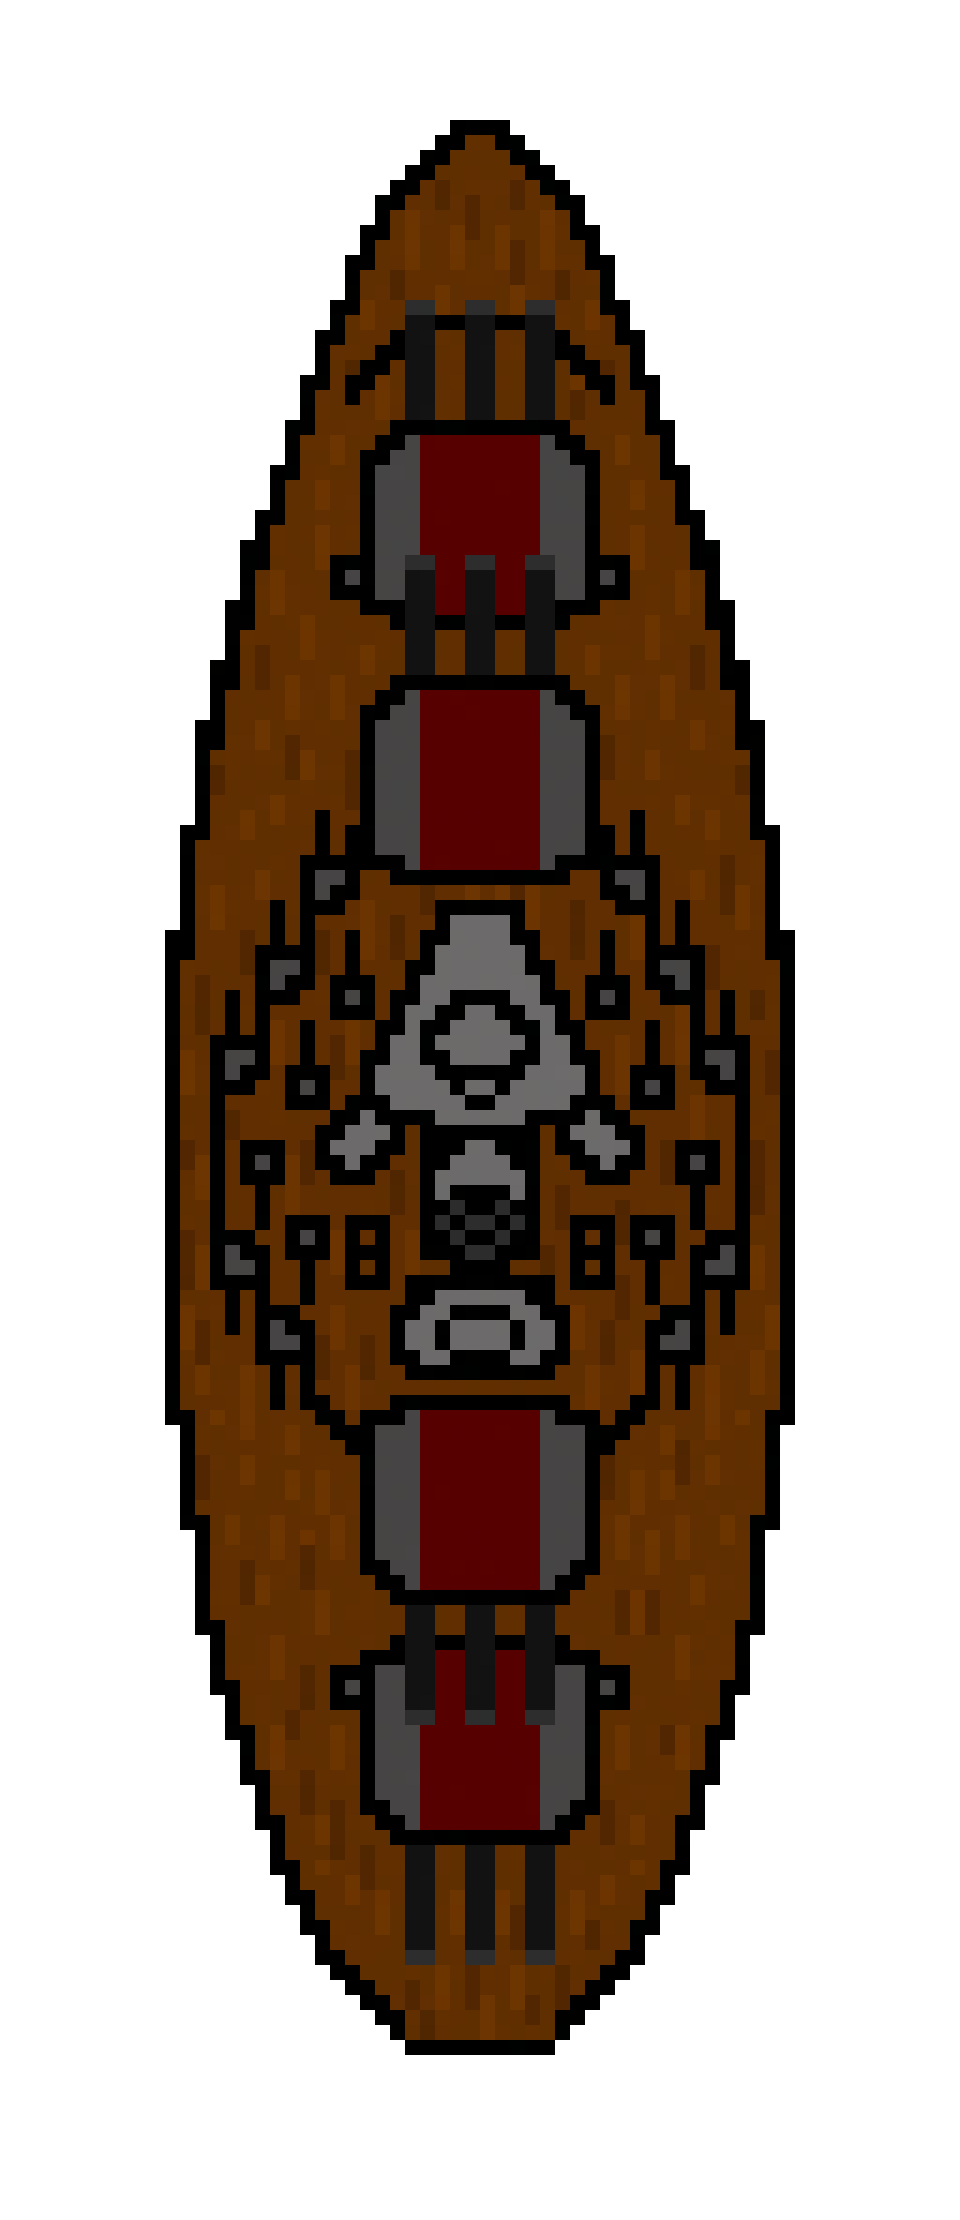
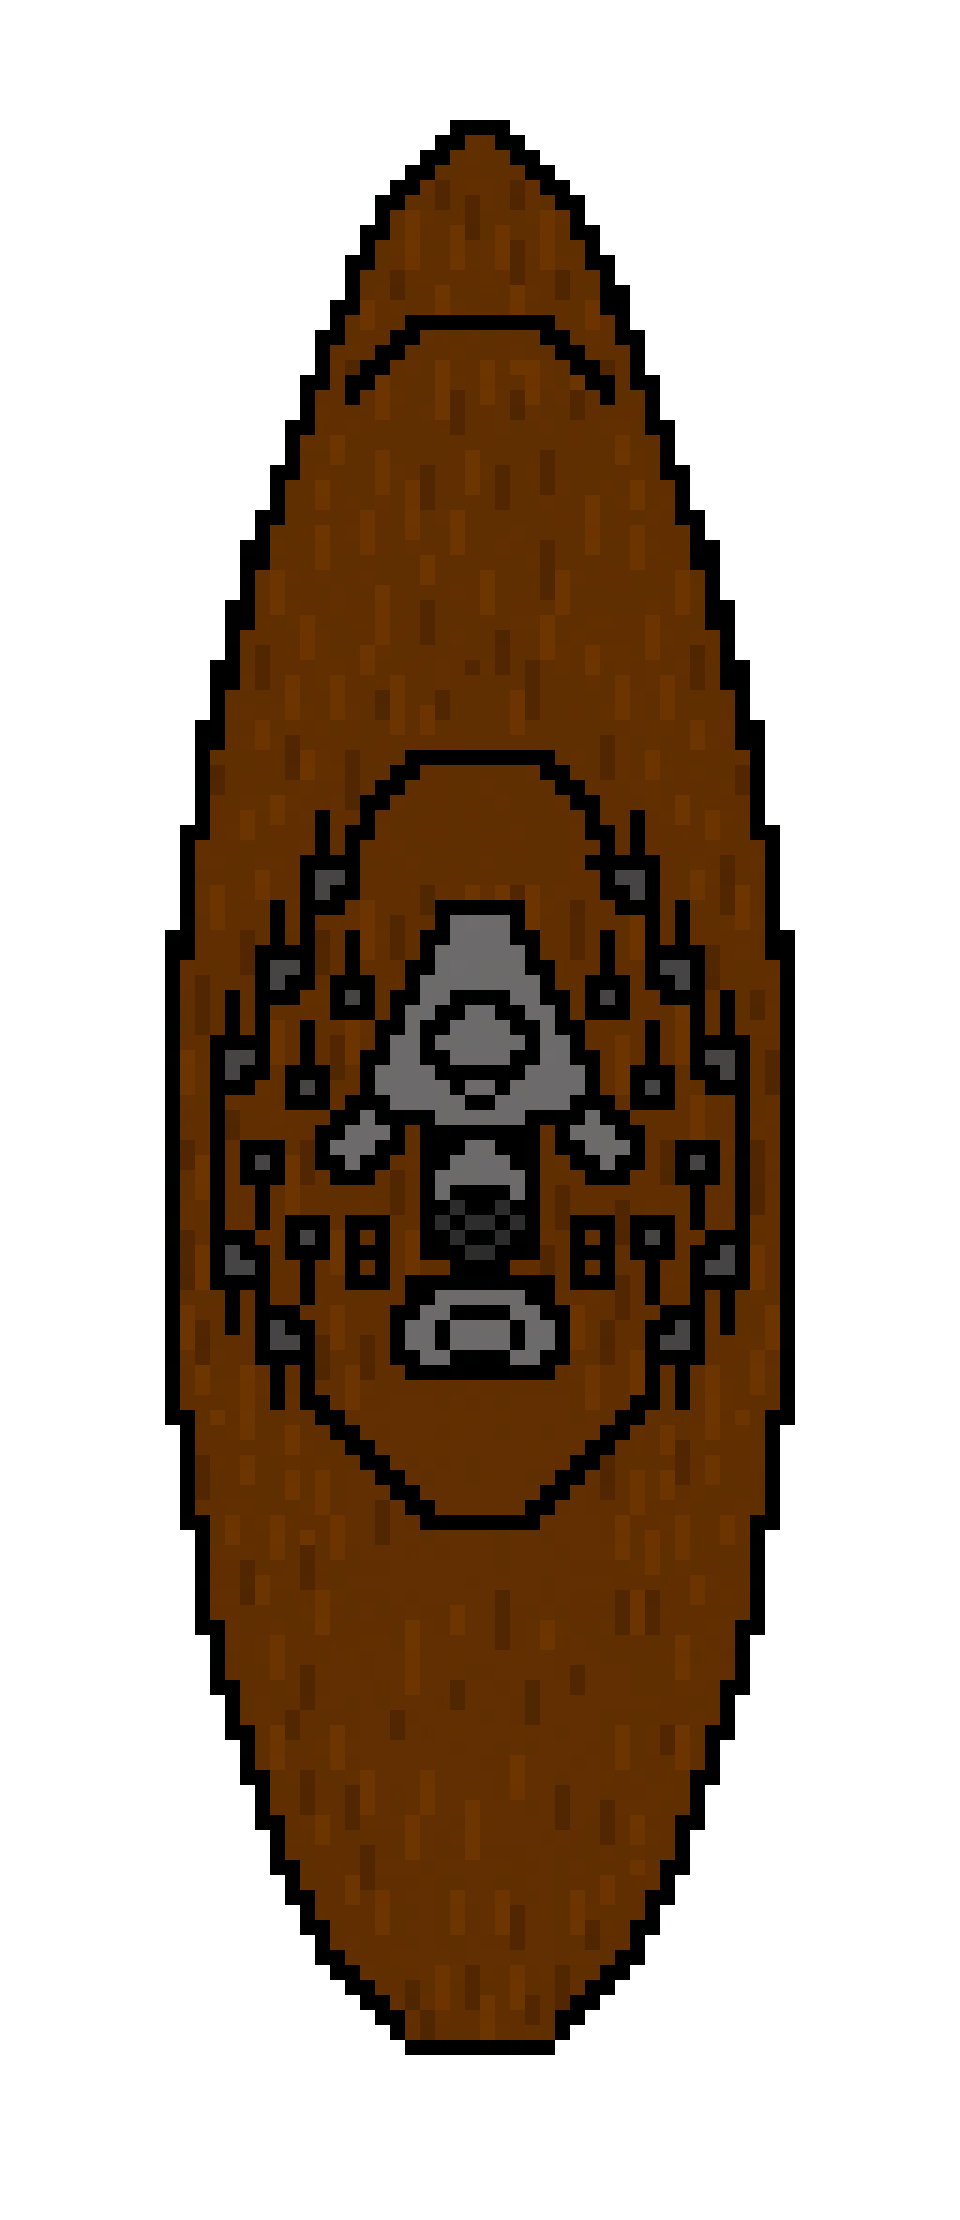
Refactored ship generation to generate turrets and hull as separate assets in preparation for firing mechanics

Changed region(s): [[0.3438, 0.6216, 0.6562, 0.9014], [0.3438, 0.1243, 0.6562, 0.4041], [0.625, 0.1243, 0.6562, 0.1554]]

diff --git a/main.js b/main.js
@@ -40,6 +40,28 @@ const turnWindowLeeway = 3;
 const shipDisplayWidth = 56;
 const shipDisplayHeight = 130;
 
+// ---- Turret mounts ----
+// Local offsets are in "unrotated ship space" (same axes as the hull texture:
+// +y toward the stern, matching ship.sprite.rotation === 0, i.e. bow facing
+// up). Derived from the anchor-point reference image: the bow pair (A, B)
+// have their barrels pointing toward the bow, so their sprites start rotated
+// 180° from the native art (which has barrels pointing "down"); the stern
+// pair (B, A) keep the native 0° rotation since their barrels already point
+// the right way (toward the stern).
+//
+// Order is bow -> stern: A, B, B, A. B mounts get a higher depth than A
+// mounts so the (inner, superfiring) B turrets always render on top of the
+// (outer) A turrets they overlap.
+const TURRET_MOUNTS = [
+  { type: "A", dx: 0, dy: -38, baseRotation: Math.PI }, // bow-most
+  { type: "B", dx: 0, dy: -22, baseRotation: Math.PI }, // bow, superfiring
+  { type: "B", dx: 0, dy: 28, baseRotation: 0 }, // stern, superfiring
+  { type: "A", dx: 0, dy: 43, baseRotation: 0 }, // stern-most
+];
+const turretDisplaySize = 21;
+const TURRET_DEPTH = { A: 2.4, B: 2.6 };
+const TURRET_TEXTURE_KEY = { A: "turret-a", B: "turret-b" };
+
 // Naval "bell order" style speed settings, each a fraction of a ship's
 // absolute top (flank) speed. Ships steer/cruise capped at whichever order
 // is currently in effect; braking to a full stop at a final waypoint always
@@ -61,6 +83,8 @@ function preload() {
   this.load.image("ship-stationary", "assets/Pennyslvania-Class Blank.png");
   this.load.image("selection-circle", "assets/Selection-Circle.png");
   this.load.image("waypoint", "assets/Waypoint.png");
+  this.load.image("turret-a", "assets/Pennsylvania Turret A.png");
+  this.load.image("turret-b", "assets/Pennsylvania Turret B.png");
   this.load.spritesheet("ship", "assets/Pennyslvania-Class.png", {
     frameWidth: 960,
     frameHeight: 2220,
@@ -218,6 +242,8 @@ function createShip(scene, x, y) {
   const sprite = scene.add.sprite(x, y, "ship-stationary")
     .setDisplaySize(shipDisplayWidth, shipDisplayHeight)
     .setDepth(2);
+
+  const turrets = createTurrets(scene, x, y);
  
   const selectedRing = scene.add.image(x, y, "selection-circle")
     .setDisplaySize(120, 120)
@@ -228,6 +254,7 @@ function createShip(scene, x, y) {
  
   return {
     sprite,
+    turrets,
     selectedRing,
     target: null,
     waypoints: [],
@@ -248,6 +275,51 @@ function createShip(scene, x, y) {
     collisionRadius: 28,
     team: "player", // future: "enemy" ships won't be avoided, only rammed
   };
+}
+
+// Builds the four turret sprites for a ship, anchored per TURRET_MOUNTS.
+// Each turret tracks its own local offset and a fixed base rotation; see
+// updateTurrets() for how those are combined with the hull's rotation every
+// frame.
+function createTurrets(scene, shipX, shipY) {
+  return TURRET_MOUNTS.map((mount) => {
+    const sprite = scene.add.sprite(shipX, shipY, TURRET_TEXTURE_KEY[mount.type])
+      .setDisplaySize(turretDisplaySize, turretDisplaySize)
+      .setDepth(TURRET_DEPTH[mount.type])
+      .setRotation(mount.baseRotation);
+    worldContainer.add(sprite);
+    return {
+      sprite,
+      dx: mount.dx,
+      dy: mount.dy,
+      // Fixed offset from the ship's own heading — NOT an absolute world
+      // angle. Every frame this gets added to the ship's current rotation,
+      // which is what makes the turret preserve its orientation relative to
+      // the ship (rigidly attached, like it's welded to the deck) as the
+      // hull turns. Once turrets become independently aimable, this is the
+      // field a future aiming system would add an extra offset on top of.
+      rotationOffset: mount.baseRotation,
+    };
+  });
+}
+
+// Repositions and reorients a ship's turrets to follow the hull: each
+// turret's fixed local offset is rotated by the ship's current heading to
+// get a world-space offset, which is added to the ship's position, and the
+// turret sprite's own rotation is set to the ship's rotation plus the
+// turret's fixed rotationOffset — so the turret stays rigidly attached to
+// the ship (constant bearing relative to the hull) rather than holding a
+// fixed absolute world angle.
+function updateTurrets(ship) {
+  const cos = Math.cos(ship.sprite.rotation);
+  const sin = Math.sin(ship.sprite.rotation);
+  ship.turrets.forEach((turret) => {
+    const worldOffsetX = turret.dx * cos - turret.dy * sin;
+    const worldOffsetY = turret.dx * sin + turret.dy * cos;
+    turret.sprite.x = ship.sprite.x + worldOffsetX;
+    turret.sprite.y = ship.sprite.y + worldOffsetY;
+    turret.sprite.rotation = ship.sprite.rotation + turret.rotationOffset;
+  });
 }
 
 function computeAvoidanceSteering(ship) {
@@ -683,6 +755,8 @@ function updateShip(ship, dt) {
  
   ship.selectedRing.x = sprite.x;
   ship.selectedRing.y = sprite.y;
+
+  updateTurrets(ship);
 }
  
 function stopShipAnimation(ship) {
